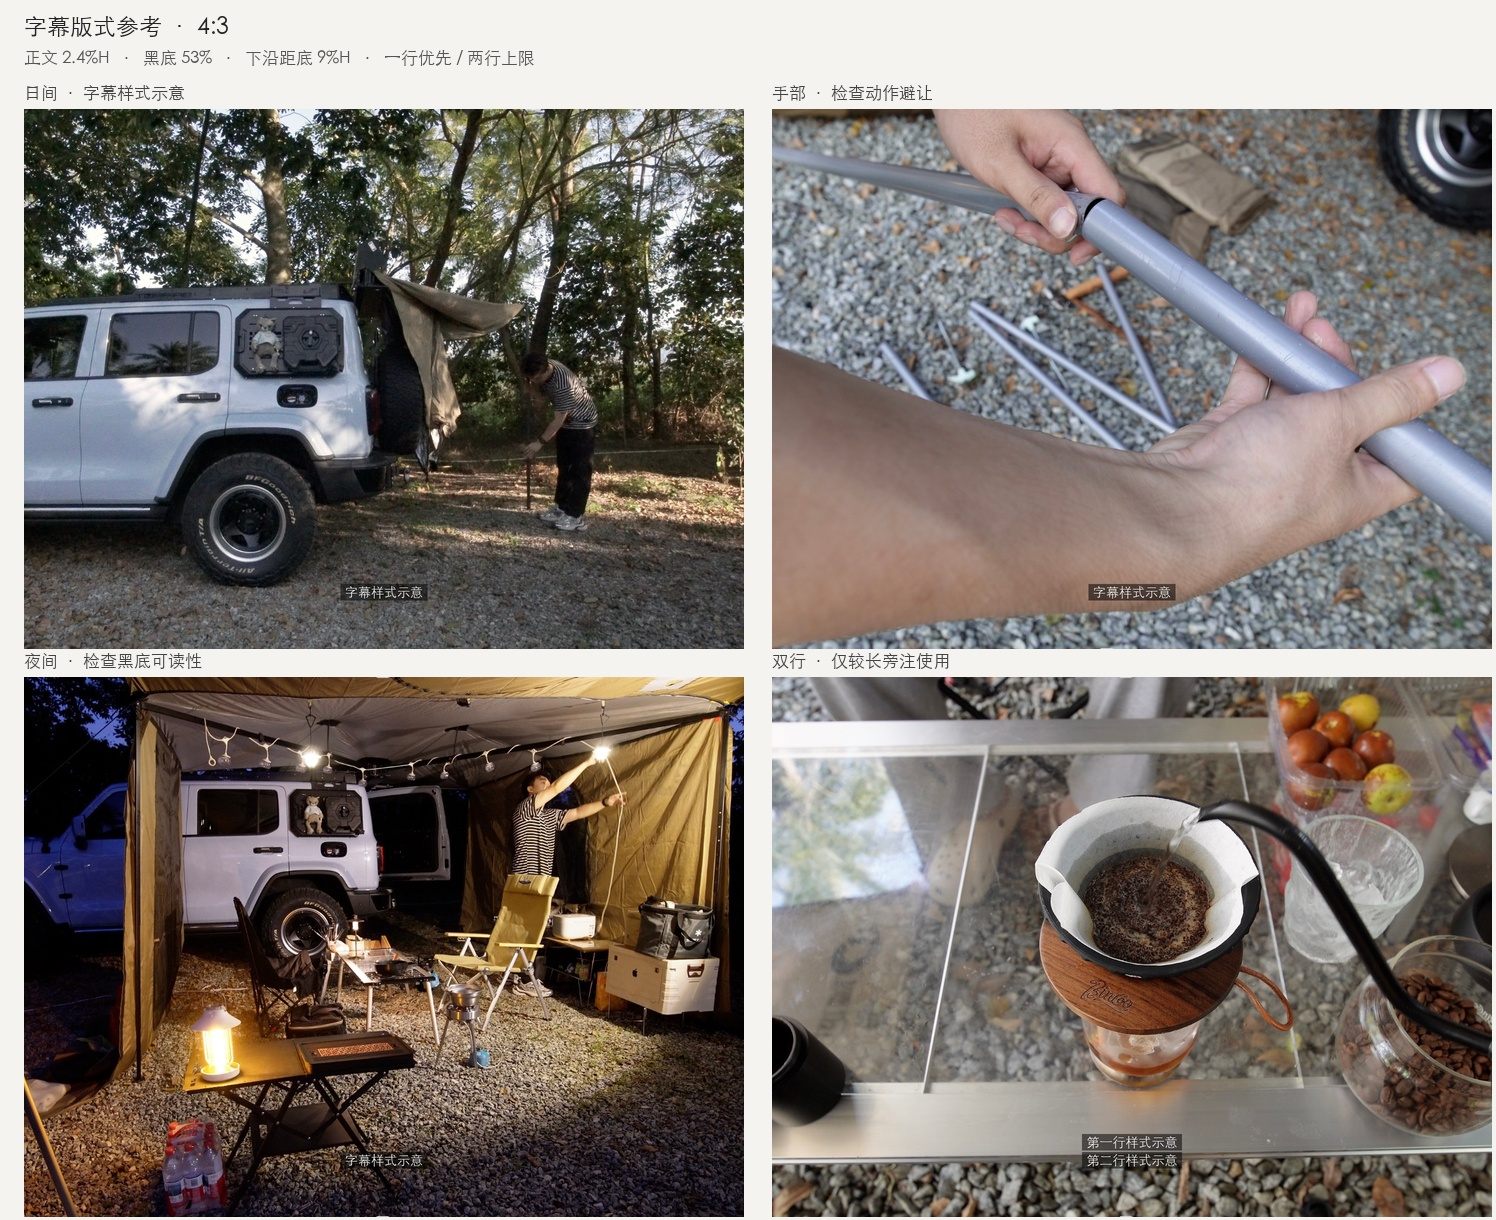
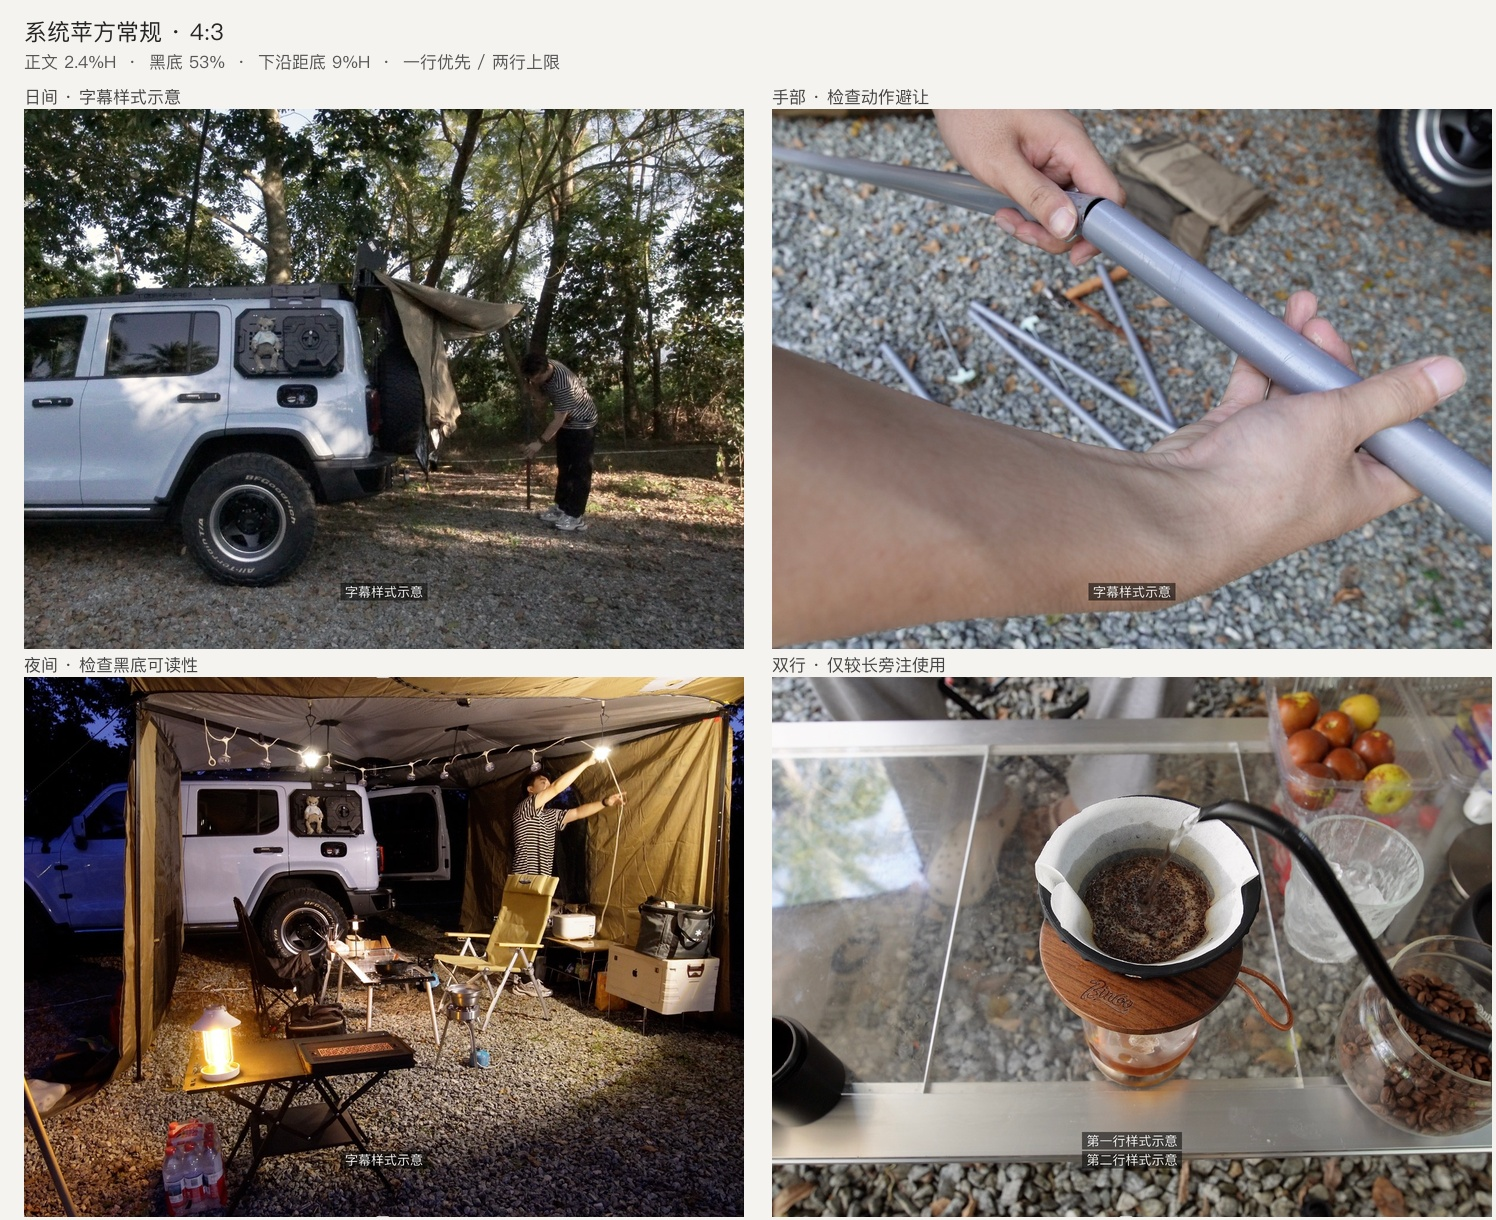
fix(camping): 字幕默认使用系统苹方常规字体

diff --git a/immersive-camping-edit/scripts/render.py b/immersive-camping-edit/scripts/render.py
@@ -57,21 +57,26 @@ def execute(binary, args, folder, log):
 
 
 def font_path(settings):
-    paths = [settings.get('font'), '/System/Library/Fonts/STHeiti Light.ttc',
+    mac_fonts = sorted(Path('/System/Library/AssetsV2').glob(
+        'com_apple_MobileAsset_Font*/*.asset/AssetData/PingFang.ttc'))
+    paths = [settings.get('font'), '/System/Library/Fonts/PingFang.ttc', *mac_fonts,
              '/System/Library/Fonts/STHeiti Medium.ttc',
              '/usr/share/fonts/opentype/noto/NotoSansCJK-Regular.ttc',
              'C:/Windows/Fonts/msyh.ttc']
     path = next((p for p in paths if p and Path(p).is_file()), None)
     if not path:
         raise ValueError('Chinese captions require output.font pointing to a suitable font')
-    return path
+    return str(path)
 
 
 def caption_font(settings, size):
     path = font_path(settings)
-    simplified = {'/System/Library/Fonts/STHeiti Light.ttc',
-                  '/System/Library/Fonts/STHeiti Medium.ttc'}
-    return ImageFont.truetype(path, size, index=int(str(path) in simplified))
+    index = {'PingFang.ttc': 3, 'STHeiti Light.ttc': 1,
+             'STHeiti Medium.ttc': 1}.get(Path(path).name, 0)
+    font = ImageFont.truetype(path, size, index=index)
+    if Path(path).name == 'PingFang.ttc' and font.getname() != ('PingFang SC', 'Regular'):
+        raise ValueError('Verify this system PingFang collection has SC Regular at index 3')
+    return font
 
 
 def text_lines(text, draw, font, width):

diff --git a/immersive-camping-edit/references/style-guide.md b/immersive-camping-edit/references/style-guide.md
@@ -85,8 +85,8 @@
 
 | 属性 | 默认目标 |
 | --- | --- |
-| 字体 | 常规或细字重的现代中文无衬线；同一期固定一个家族、一个正文字重 |
-| 字体选择 | macOS 优先苹方常规或黑体细体；其他系统可用思源黑体/Noto Sans CJK Regular、微软雅黑常规。按实际字形检查并记录替代字体 |
+| 字体 | 系统中文无衬线的常规字重；同一期固定一个家族、一个正文字重 |
+| 字体选择 | macOS 默认系统苹方简体常规（PingFang SC Regular）；其他系统使用本机默认中文无衬线常规，如微软雅黑或 Noto Sans CJK Regular。按实际字形检查并记录替代字体 |
 | 字号 | 画面高度约 2.4%，1440×1080 时约 26 px；720×540 时约 13 px。高分辨率按比例放大 |
 | 颜色与底色 | 白字，黑色底约 53% 不透明度；每行贴合字宽，横内边距约 0.35 字高、纵约 0.16 字高 |
 | 位置 | 默认水平居中，黑底下沿距画面底部约 9% 高度；同一段落保持一致 |
@@ -97,7 +97,7 @@
 
 避开花体、衬线正文、粗描边、重阴影、彩色字、弹跳与打字机效果。英文信息标签用同一简洁无衬线体系、少量大写、白字透明底，字号约 2.8% 高度；只交代有证据的信息，通常一行。英文标题与中文旁注分工清楚，不每个时段都叠一套中英标题。
 
-字体可以按本机资源替换，固定记录实际家族、字重和字体路径；公共 Skill 不打包系统商业字体。新电脑须检查中文标点、拉丁字母及缺字，按最终画面测量大小与留白。正文既要克制，也须在目标观看尺寸可读。
+使用本机系统常规字体，保持正常字距与字形比例，按需替换为系统同类字体；固定记录实际家族、字重和字体路径。公共 Skill 不打包系统商业字体。新电脑须检查中文标点、拉丁字母及缺字，按最终画面测量大小与留白。正文既要克制，也须在目标观看尺寸可读。
 
 字幕避让人物脸、手部操作、食物和器具结果。优先挪开字幕出现的时段、缩短文案，仍遮挡时将整组同场字幕移到另一处安静留白；保持安全区和统一对齐，不让每句话随机跳位置。随附渲染器仅支持 top/center/bottom，复杂避让在剪映独立文字对象中完成。全片交付前检查日间、手部、夜间、两行文字和首中末字幕。
 

diff --git a/immersive-camping-edit/references/timeline-format.md b/immersive-camping-edit/references/timeline-format.md
@@ -50,7 +50,7 @@ python "$SKILL_DIR/scripts/render.py" timeline.json --output outputs/episode.mp4
 
 - `sources` 是 ID 到文件路径的映射。相对路径以 JSON 所在目录为基准；可使用绝对路径。列出实际使用的素材。原文件保持只读。
 - `output.width/height` 是 16–7680 范围内的偶数；`fps` 支持 `30` 或 `"30000/1001"` 等帧率，范围 1–120。遵守用户指定的画幅，默认参考画幅 4:3；根据源清晰度选择输出分辨率。
-- `output.font` 可指定支持中文的字体文件。相对路径同样以 JSON 所在目录为基准；未指定时优先系统黑体细体（本机 Heiti SC Light），再找黑体或 Noto CJK。实际字体记入交接记录。缺少字体时明确失败。
+- `output.font` 可指定支持中文的字体文件。相对路径同样以 JSON 所在目录为基准；未指定时优先系统苹方简体常规（PingFang SC Regular），再找系统黑体或 Noto CJK 常规。实际字体记入交接记录。缺少字体时明确失败。
 - `clips` 按成片顺序排列，至少一段。视频段必填 `source/in/out`；黑场段必填 `black: true` 和正数 `duration`。
 - `in/out` 单位为秒，区间左闭右开。视频片段以该源视频流的播放起点为零；音乐以源音频流的播放起点为零。不要把文件中的绝对 PTS 当作出入点。非零起始 PTS 会被换算，源内音视频起点差通过补静音保持。
 - 视频段的 `speed` 默认 `1`，支持 `0.125–8`；镜头时长为 `(out-in)/speed`，再量化到成片帧数。使用 `atempo` 同步变速音频并保持音高，极端变速仍需听审。需要移除该段原声时显式设 `mute: true`。
